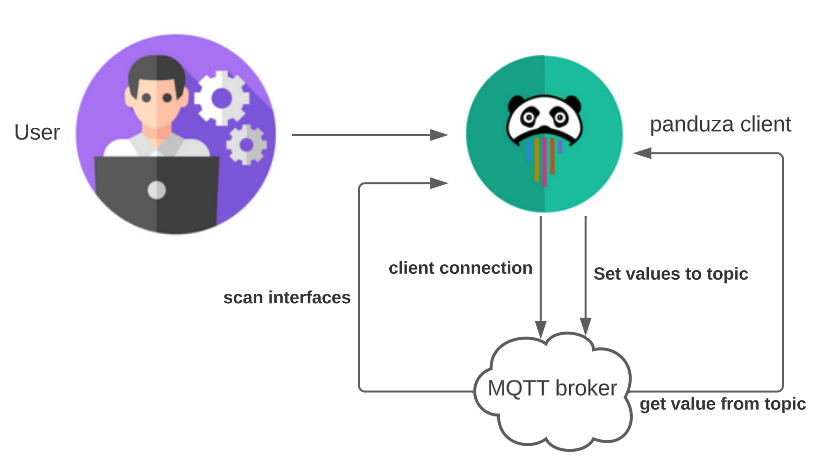
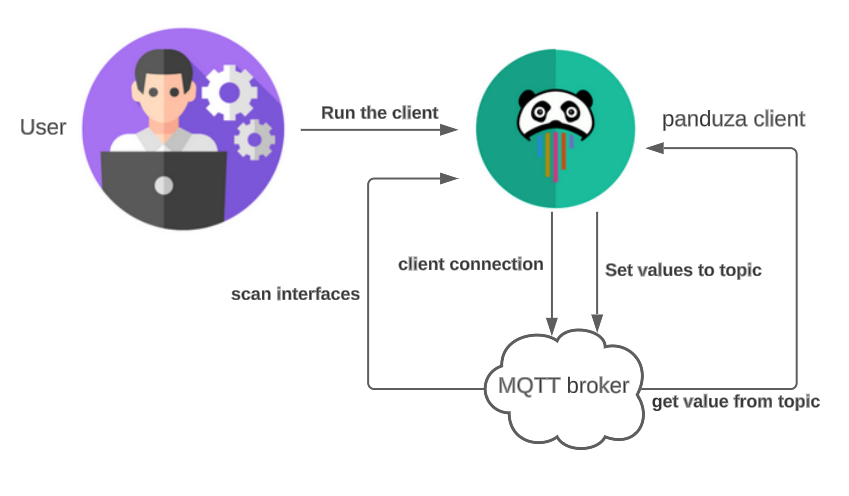
updat documentation 26042023

diff --git a/tutorials/dio_control_with_raspberry_pico/index.md b/tutorials/dio_control_with_raspberry_pico/index.md
@@ -19,7 +19,7 @@ For this project, you will need to have the following components :
 <p> 6 resistors of 1Kohms maximum </p>
 <p> 1 push button</p>
 
-In this example, we will control the GPIO 1, 11, 17, 20 and 27of the PICO MCU by sending data to GPIO 0,10,16, 21 and 28 witch will be configured in outputs.
+In this example, we will control the GPIO 1, 11, 17, 20 and 27 of the PICO MCU by sending data to GPIO 0,10,16, 21 and 28 witch will be configured in outputs.
 
 To do this, you can do the schematic the following schematic to control one IO: 
 
@@ -115,7 +115,7 @@ To reset the MCU, you need to press on the push button and the bootsel button of
   https://github.com/Panduza/panduza-adapters-sdk.git
 ```
 
-Then choose the last workflow and download the .uf2 and program the PICO.
+the **pza-pico-modbus-dio.uf2** is available in the release section.
 
 # Panduza client
 
@@ -126,6 +126,11 @@ This part will allow you to sent various informations of each I:O (GPIO 0,10,16,
 In this part we need to configure various informations.
 
 The server configuration.
+
+```python
+BROKER_ADDR="localhost"
+BROKER_PORT=1883
+```
 
 Configure the Topics. A topic corresponds to a path where will be stored all the data from each I:O.
 
@@ -151,7 +156,7 @@ Create a instance of the Client class. This will manage the connection between y
   pzaClient.connect()
 ```
 
-Scanning the interfaces. This will make sure that all the topics have been created.There is a example of message you must see.
+Scanning the interfaces. This will make sure that all the topics have been created. There is a example of message you must see in the output of your terminal
 
 ![](_media/run_client.png)
 
@@ -483,8 +488,7 @@ You can also install the minicom package to view data threw a serial port. This 
 
   If you wish doing unitary tests, you can replace the client bloc from panduza by a robot framework api.
   Robot framework is used to test python functions separatly.
-
-
+  
   Robot framework will allow you to test each functions of panduza DIO and it will return you if the test is good or not.
 
   To do this, you have to install robot framework and additional packages: 
@@ -592,9 +596,6 @@ To run use the following command :
 
 
 <!-- 
-
-
-
 
 # ---------- old --------------------------- 
 
